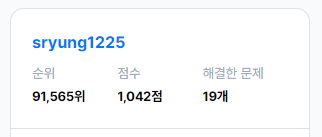
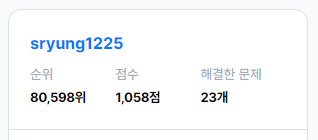
day5 4문제 : 옷가게 할인 받기 / 아이스 아메리카노 / 나이 출력 / 배열 뒤집기

diff --git a/Level0/아이스아메리카노.js b/Level0/아이스아메리카노.js
@@ -1,0 +1,12 @@
+function solution(money) {
+  let answer = [];
+  answer.push(Math.floor(money/5500));
+  answer.push(money%5500);
+  return answer;
+}
+
+// 참고 풀이 : double tilde로 Math.floor를 대신하기
+function solution(money) {
+  const answer = [~~(money/5500), money%5500];
+  return answer;
+}

diff --git a/Level0/옷가게할인받기.js b/Level0/옷가게할인받기.js
@@ -1,0 +1,10 @@
+function solution(price) {
+  let answer = 0;
+
+  if(price >= 500000){ answer = price*0.8;}
+  else if(price < 500000 && price >= 300000){ answer = price*0.9;}
+  else if(price < 300000 && price >= 100000){ answer = price*0.95;}
+  else { answer = price; }
+  
+  return Math.floor(answer);
+}

diff --git a/Level0/나이출력.js b/Level0/나이출력.js
@@ -1,0 +1,8 @@
+function solution(age) {
+  return 2022 - age + 1;
+}
+
+// 더 좋은 풀이 : 현재년도가 2022로 주어지지 않고 받아와야 하는 경우
+function solution(age) {
+  return new Date().getFullYear() - age + 1;
+}

diff --git a/Level0/배열뒤집기.js b/Level0/배열뒤집기.js
@@ -1,0 +1,3 @@
+function solution(num_list) {
+  return num_list.reverse();
+}

diff --git a/README.md b/README.md
@@ -7,7 +7,7 @@
 문제 풀이를 완료하는 경우 커밋을 진행합니다.
 
 ### 🌱 현재 단계
-- 1주차
+- 2주차
 - 프로그래머스 코딩테스트 입문 Level 0 풀이
 - ![프로그래머스 현재 상태](./assets/status_programmers.PNG)
 
@@ -43,3 +43,7 @@
 | 0 | [피자 나눠 먹기 (2)](https://school.programmers.co.kr/learn/courses/30/lessons/120815) | [피자나눠먹기(2).js](./Level0/피자나눠먹기(2).js)
 | 0 | [피자 나눠 먹기 (3)](https://school.programmers.co.kr/learn/courses/30/lessons/120816) | [피자나눠먹기(3).js](./Level0/피자나눠먹기(3).js)
 | 0 | [배열의 평균값](https://school.programmers.co.kr/learn/courses/30/lessons/120817) | [배열의평균값.js](./Level0/배열의평균값.js)
+| 0 | [옷가게 할인 받기](https://school.programmers.co.kr/learn/courses/30/lessons/120818) | [옷가게할인받기.js](./Level0/옷가게할인받기.js)
+| 0 | [아이스 아메리카노](https://school.programmers.co.kr/learn/courses/30/lessons/120819) | [아이스아메리카노.js](./Level0/아이스아메리카노.js)
+| 0 | [나이 출력](https://school.programmers.co.kr/learn/courses/30/lessons/120820) | [나이출력.js](./Level0/나이출력.js)
+| 0 | [배열 뒤집기](https://school.programmers.co.kr/learn/courses/30/lessons/120821) | [배열뒤집기.js](./Level0/배열뒤집기.js)
